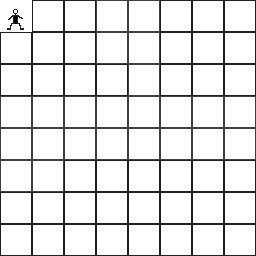
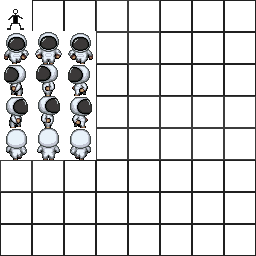
Basic framework for campaign added

Changed region(s): [[0.0, 0.0938, 0.375, 0.625]]

diff --git a/Mars Raiders/Mars Raiders/Mars Raiders/Classes/Entity/Entity.cs b/Mars Raiders/Mars Raiders/Mars Raiders/Classes/Entity/Entity.cs
@@ -18,7 +18,8 @@ namespace Mars_Raiders
         public int x, y;
         public Boolean visible;
         public Boolean inTransition;
-        protected Vector2 TextureLocation;
+        protected Vector2 TextureLocation; //top left of the frames for the entity (0 based)
+        protected Vector2 Frame = new Vector2(); //current frame (0 based)
         const int FrameSizeInPixels = 32;
 
         public Entity()
@@ -29,7 +30,7 @@ namespace Mars_Raiders
         public void render(SpriteBatch SB, ContentManager CM)
         {
             SB.Draw(CM.Load<Texture2D>("Graphics/TileSheet/EntityFrames"), new Rectangle((int)(x * FrameSizeInPixels * Game1.Scale * Game1.Zoom) + Level.XOffset,(int)(y * FrameSizeInPixels * Game1.Scale * Game1.Zoom) + Level.YOffset, (int)(FrameSizeInPixels * Game1.Scale * Game1.Zoom), (int)(FrameSizeInPixels * Game1.Scale * Game1.Zoom)), //the destination rectangle
-              new Rectangle((int)(TextureLocation.X * FrameSizeInPixels), (int)((TextureLocation.Y * FrameSizeInPixels)), FrameSizeInPixels, FrameSizeInPixels), Color.White); //the source rectangle
+              new Rectangle((int)(TextureLocation.X * FrameSizeInPixels * (TextureLocation.X + Frame.X)), (int)((TextureLocation.Y * FrameSizeInPixels * (TextureLocation.Y + Frame.Y))), FrameSizeInPixels, FrameSizeInPixels), Color.White); //the source rectangle
 
         }
 

diff --git a/Mars Raiders/Mars Raiders/Mars Raiders/Classes/Level/Level.cs b/Mars Raiders/Mars Raiders/Mars Raiders/Classes/Level/Level.cs
@@ -17,10 +17,12 @@ namespace Mars_Raiders
 {
     public class Level
     {
-      
+
+        public string mode; //Play for actual game, Edit for editor
         public Tile[,] Map;
         public Vector2 MapDimensions = new Vector2 (100,100);
-        public EntityCursor Player = new EntityCursor();
+        public EntityCursor Cursor = new EntityCursor();
+        public Player Player = new Player();
         private HUD hud = new HUD();
         public bool Paused;
         public bool FirstTickPaused;
@@ -77,7 +79,15 @@ namespace Mars_Raiders
                     Map[x, y].draw(SB,C,x,y,this);
                 }
             }
-            Player.render(SB, C);
+            if (mode == "Edit")
+            {
+                Cursor.render(SB, C);
+            }
+            else if (mode == "Play")
+            {
+                Player.render(SB, C);
+            }
+           
             hud.draw(SB,C);
             if (this.Paused)
             {
@@ -98,7 +108,12 @@ namespace Mars_Raiders
                     Map[x, y].update(gametime);
                 }
             }
-            Player.update(gametime,this);
+            if (mode == "Edit")
+            {
+                Cursor.update(gametime, this);
+            }else if(mode == "Play"){
+                Player.update (gametime, this);
+            }
         }
 
         public void save()

diff --git a/Mars Raiders/Mars Raiders/Mars Raiders/Classes/Contents.cs b/Mars Raiders/Mars Raiders/Mars Raiders/Classes/Contents.cs
@@ -26,7 +26,7 @@ namespace Mars_Raiders
         {
             Game1.Menu = new Menu(Content.Load<Texture2D>("Graphics/MainMenuBackGround"));
             Game1.Menu.MenuItems.Clear();
-            Game1.Menu.MenuItems.Add(new Menu_Item("Play Game", "Begin the Game", 1, (int)ProgramPositions.MenuMain,1.0f,  Content));
+            Game1.Menu.MenuItems.Add(new Menu_Item("Play Game", "Begin the Game", 1, (int)ProgramPositions.PlayGameInit,1.0f,  Content));
             Game1.Menu.MenuItems.Add(new Menu_Item("Level Creator", "Create a level", 2, (int)ProgramPositions.MenuDeveloperInitiate, 1.0f,  Content));
             Game1.Menu.MenuItems.Add(new Menu_Item("Exit", "Are you sure?", 3, (int)ProgramPositions.END, 1.0f,  Content));
             Game1.ProgramPosition = (int)ProgramPositions.MenuStart;
@@ -45,6 +45,16 @@ namespace Mars_Raiders
         public void Level_Creator_Initiate(ContentManager Content)
         {
             Game1.Level.generate();
+            Game1.Level.mode = "Edit"; //sets to editor mode
+            Game1.ProgramPosition = (int)ProgramPositions.LevelCreator;
+        }
+
+        public void Play_Game_Initiate()
+        {
+            Game1.Level.generate();
+            Game1.Level.load();
+            Game1.Level.mode = "Play";
+            Game1.ProgramPosition = (int)ProgramPositions.PlayGame;
         }
 
 

diff --git a/Mars Raiders/Mars Raiders/Mars Raiders/Classes/Game1.cs b/Mars Raiders/Mars Raiders/Mars Raiders/Classes/Game1.cs
@@ -125,6 +125,14 @@ namespace Mars_Raiders
                 case (int)ProgramPositions.END:
                     this.Exit();
                     break;
+                case (int) ProgramPositions.PlayGameInit:
+                    Contents.Play_Game_Initiate();
+                    break;
+                case (int)ProgramPositions.PlayGame:
+                    Game1.Level.update(gameTime);
+                    break;
+                    
+
             }
             base.Update(gameTime);
         }
@@ -141,6 +149,9 @@ namespace Mars_Raiders
                     Menu.Draw(spriteBatch, Content);
                     break;
                 case (int)ProgramPositions.LevelCreator:
+                    Game1.Level.Draw(spriteBatch, Content);
+                    break;
+                case (int)ProgramPositions.PlayGame:
                     Game1.Level.Draw(spriteBatch, Content);
                     break;
             }

diff --git a/Mars Raiders/Mars Raiders/Mars Raiders/Classes/ProgramPosition.cs b/Mars Raiders/Mars Raiders/Mars Raiders/Classes/ProgramPosition.cs
@@ -16,7 +16,9 @@ namespace Mars_Raiders
         MenuDeveloperInitiate = 6,
         MenuDeveloper = 7,
         LevelCreatorInitiate = 8,
-        LevelCreator = 9
+        LevelCreator = 9,
+        PlayGameInit = 10,
+        PlayGame = 11
 
     }
 }
